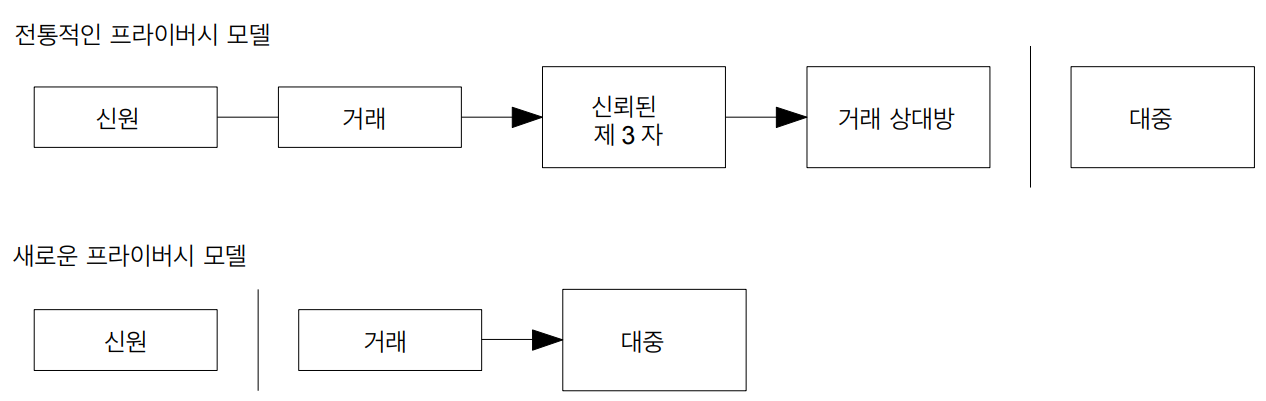
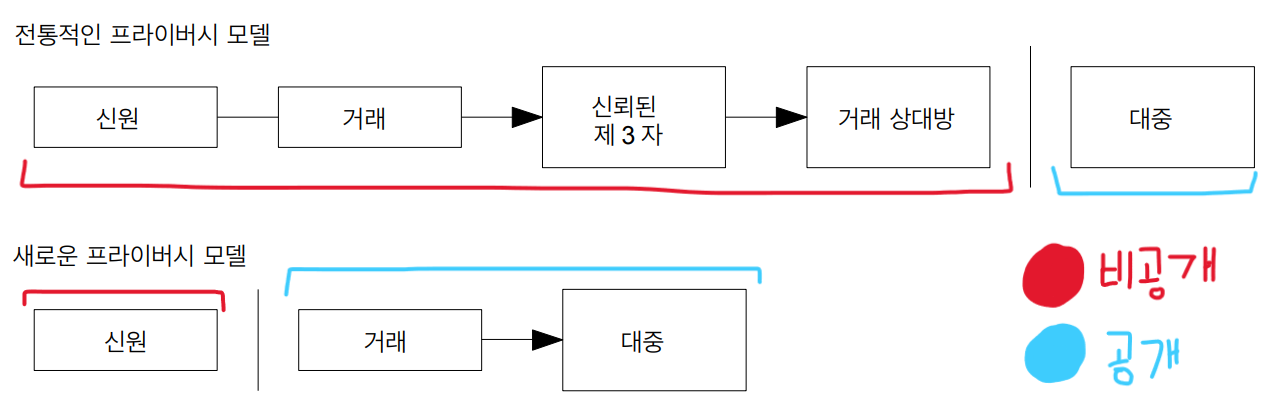
ㅁ

diff --git a/1기/비트코인백서/정한/정한.md b/1기/비트코인백서/정한/정한.md
@@ -4,7 +4,7 @@
 ### 대칭키와 비대칭키
 데이터 보호를 위한 두 가지 주요 암호화 방식
 - 대칭키: 암호화, 복호화에 사용하는 키가 동일
-- 비대칭키: 암호화, 복호화에 사용하는 키가 서로 다름
+- 비대칭키: 암호화, 복호화에 사용하는 키가 서로 다름 (공개키: 알려져도 됨, 개인키: 나의 비밀번호)
 
 ### 해쉬 (Hash)
 ![alt text](image-3.png)
@@ -24,20 +24,21 @@
 문제는 **미래**의 이중지불을 검증할 수 없다. 제3자에 의존하면 신뢰가 또 필요하므로 X. 이 장에서는 이중지불은 신경쓰지 않고, 거래 검사만 진행
 
 
-![alt text](image.png)
-
 소유자1 = 돈 보내는 사람, 소유자2 = 돈 받는 사람
 
 **서명 과정**  
+![sign](sign.png)
 1. (이전 거래 해시값 + 받는사람 공개키)를 해시하기
 2. 1번의 해시값을 보내는 사람의 개인키로 서명하기
 3. `이전거래 + 받는사람 + 보내는사람 = 서명`을 전파하기 (재료와 결과 같이 전파)
 
 **검증 과정**  (거꾸로 검증)
+![verification](verification.png)
 1. 전파된 재료들과 서명값 가져오기
 2. 서명을 보내는 사람의 공개키로 해시 추출하기
 3. 추출된 해시가 (이전 거래 해시값 + 받는사람 공개키)의 해시와 같은지 검사하기
 
+(숫자 대입해서 하면 이해 쉬움)
 ---
 
 # 3. 타임스탬프 서버 (Timestamp Server)
@@ -49,20 +50,53 @@
 
 ![alt text](image-1.png)
 특정시점에 데이터 덩어리와 함께 시간 기록해놓기
+- 둘 이상의 시각을 비교하거나 기간을 계산할 때 편리하게 사용
+- 논리적 타임스탬프 사용: 절대시간이 아닌 상대시간
+- 조작을 어렵게 함
 
+**블록 헤더**  
+- `버전`: 블록 버전
+- `이전 블록 해시`: 이전 블록 헤더 해시한 값
+- `머클루트`: 거래 해시값
+- `타임스탬프`: 생성시간
+- `비츠(bits)`: 난이도
+- `논스(nonce)`: 난이도 위한 카운터
 
 ---
 
 # 10. 프라이버시 (Privacy)
+개인정보가 털리면??
+- 보안
+- 은행 자산 공개 -> 뱅크런
+
 ![alt text](image-2.png)
+**전통적인 보안**  
+- 제 3자(은행)가 모든 개인정보와 거래를 관리
+
+**새로운 보안**  
+모두가 거래를 검증해야 하므로 장부 공개
+- 비밀번호 나만 가지고 있음
+- 거래와 비밀번호 제외한 개인정보 모두 공개
+- 누구계정인지 모름
+
 
 ---
 
 # 11. 계산 (Calculations)
+작업증명은 계산으로 증명되므로, 공격자의 계산이 엄청 빠르다면 계좌 조작으로 네트워크가 위험해질 수 있음
+
+### 공격자 시나리오: 계산을 엄청 빨리해서 계좌 조작해보기
 
 
 ---
 
 # 12. 결론
+> ## "우리는 `중앙집중된 신뢰`에 의존하지 않는 전자 거래용 시스템을 제안했다"
+= 분산된 신뢰를 의존 = 개인의 욕심을 신뢰
 
+- 디지털 서명 -> 기술적 보안
+- 작업증명 + 계좌공개 -> 합의방식(이중지불 방지 위해)
+- 인센티브 시스템 -> 네트워크 기여 유도
 
+> ## "이 네트워크의 견고함은 비정형적 단순함에 있다"
+= 비효율적인데 완전 안전 = **효율성**보다 **신뢰**를 목적

diff --git a/단어장.md b/단어장.md
@@ -1,1 +1,8 @@
 - `PoW`: 작업증명 (Proof-of-Work)
+- `타임스탬프 `: 어떤 기준 시각부터 경과 시간
+- `Epoch`: 중요한 사건,변화가 일어난 정적인 시간 기원 (예. Unix Epoch)
+- ``: 
+- ``: 
+- ``: 
+- ``: 
+- ``: 
